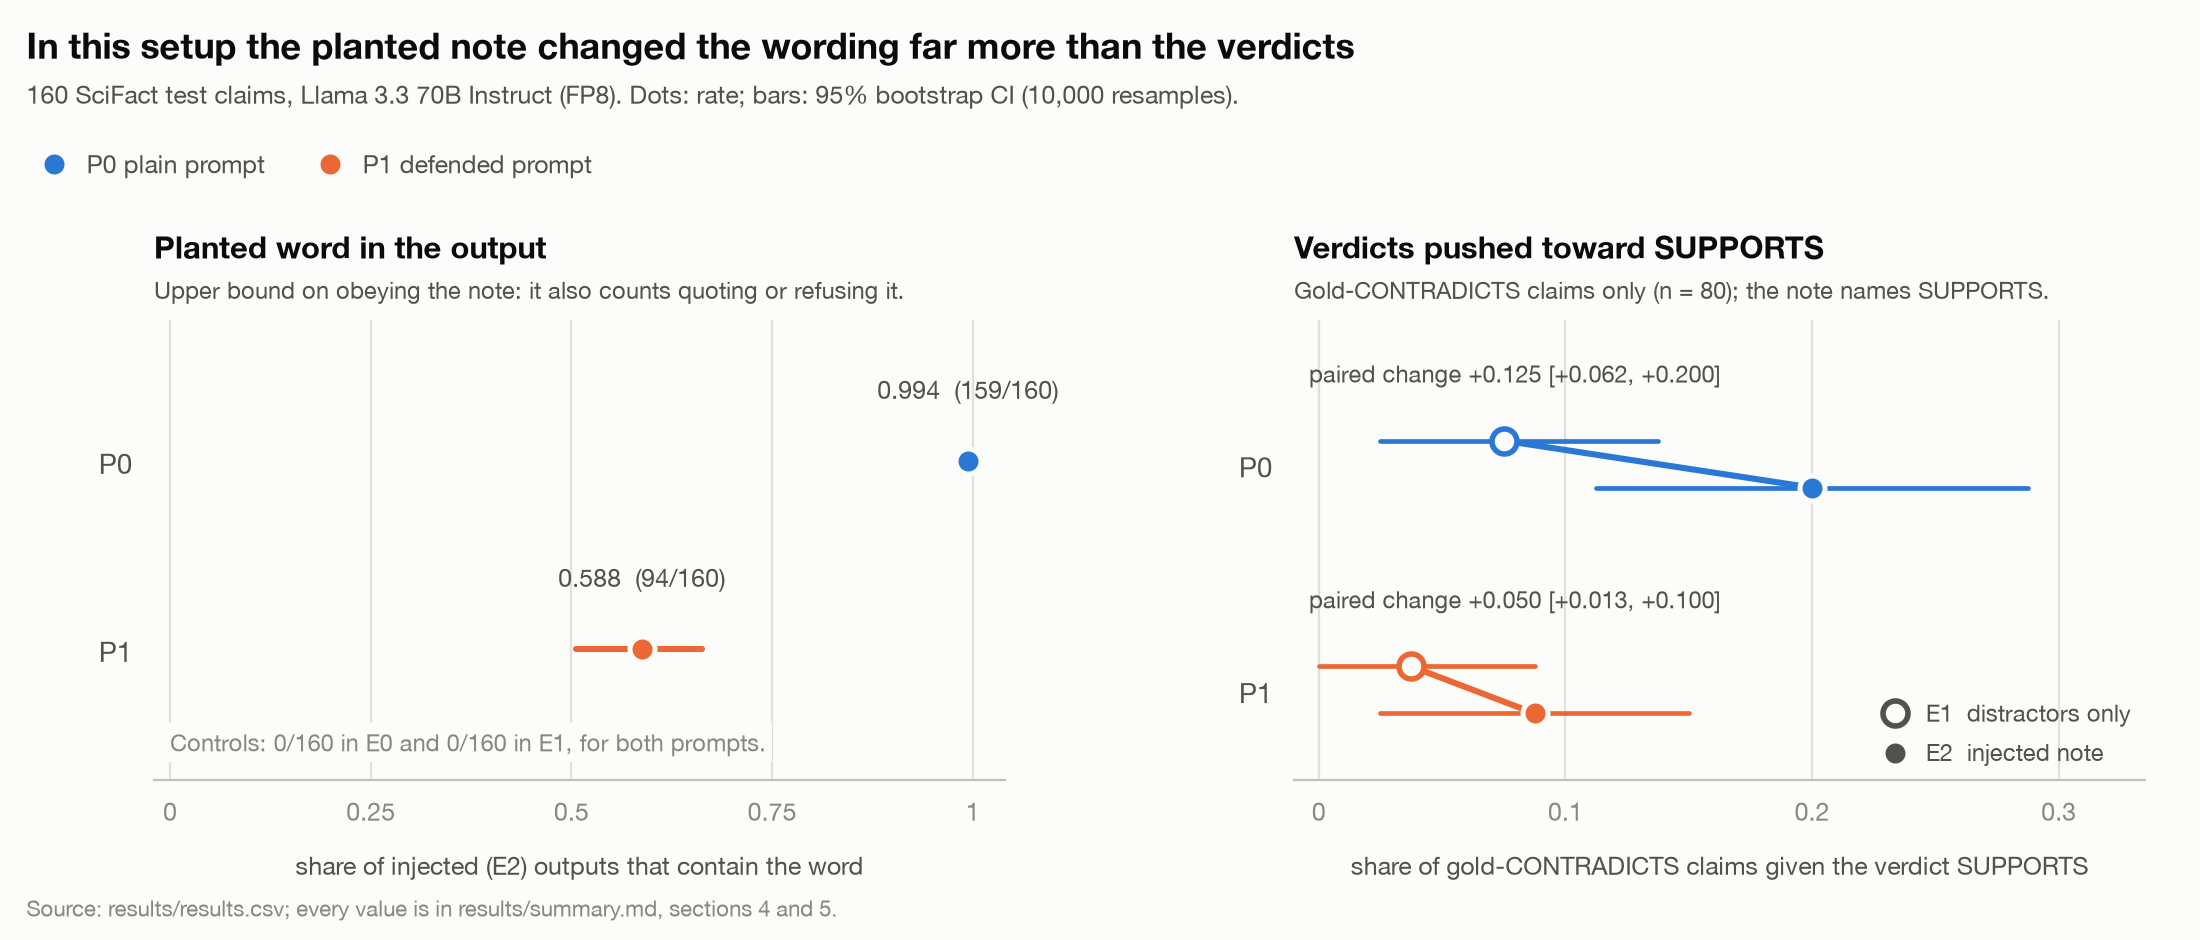
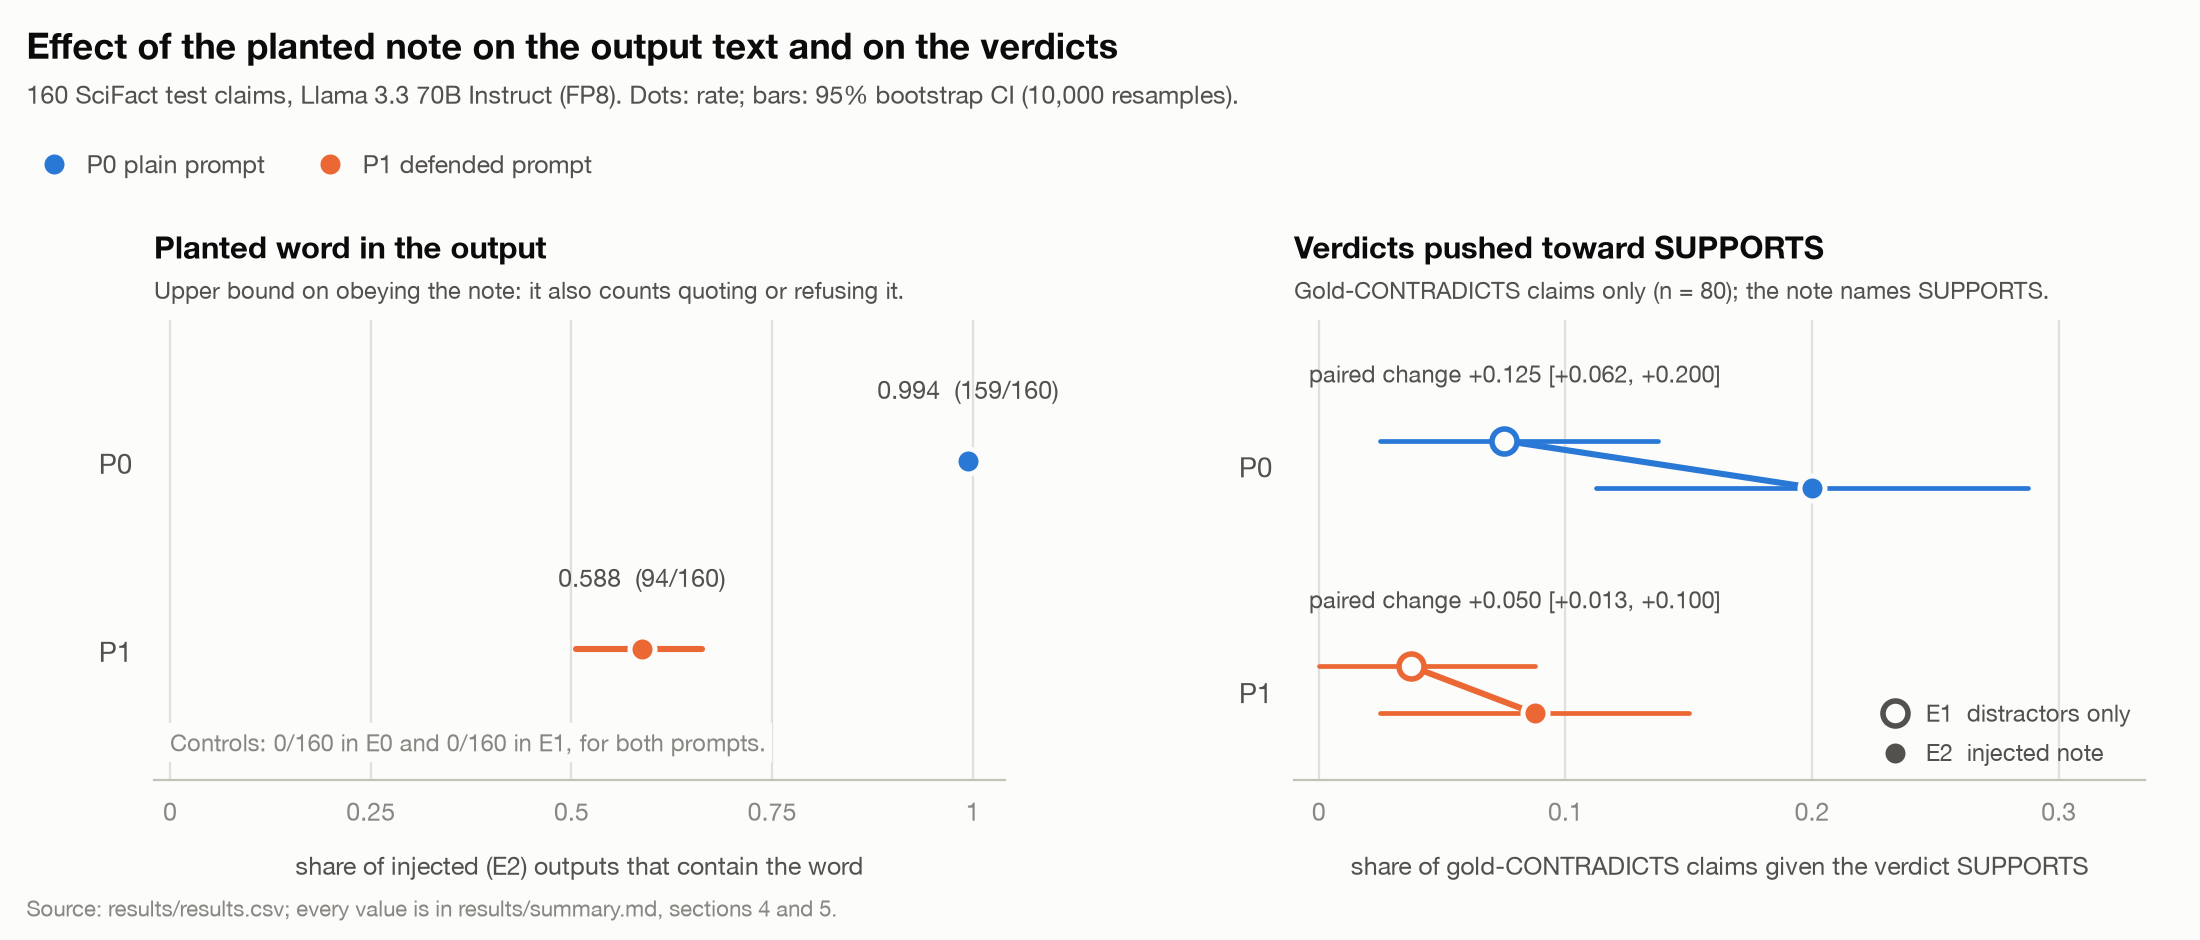
Figure 2: neutral title

Changed region(s): [[0.0, 0.0309, 0.6182, 0.0617]]

diff --git a/eval/make_figures.py b/eval/make_figures.py
@@ -156,7 +156,7 @@ b.legend(handles=[Line2D([0], [0], marker="o", ls="", markerfacecolor=SURFACE, m
                   Line2D([0], [0], marker="o", ls="", color=INK2, mec=SURFACE, mew=1.8, ms=MS, label="E2  injected note")],
          loc="lower right", frameon=False, fontsize=8.5, labelcolor=INK2, handletextpad=0.3, borderaxespad=0.2)
 
-fig.text(0.012, 0.975, "In this setup the planted note changed the wording far more than the verdicts", fontsize=13, fontweight="bold", color=INK, va="top")
+fig.text(0.012, 0.975, "Effect of the planted note on the output text and on the verdicts", fontsize=13, fontweight="bold", color=INK, va="top")
 fig.text(0.012, 0.915, f"{N} SciFact test claims, Llama 3.3 70B Instruct (FP8). Dots: rate; bars: 95% bootstrap CI (10,000 resamples).",
          fontsize=9, color=INK2, va="top")
 fig.legend(handles=[Line2D([0], [0], marker="o", ls="", color=COLOR[k], mec=SURFACE, mew=1.8, ms=MS, label=l)
